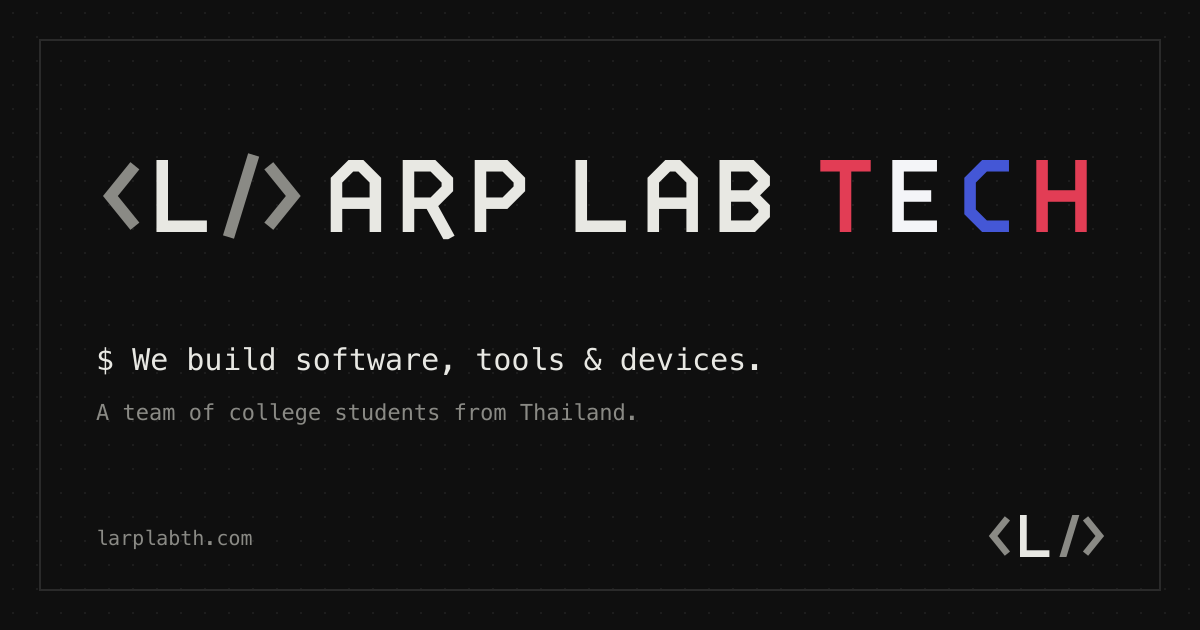
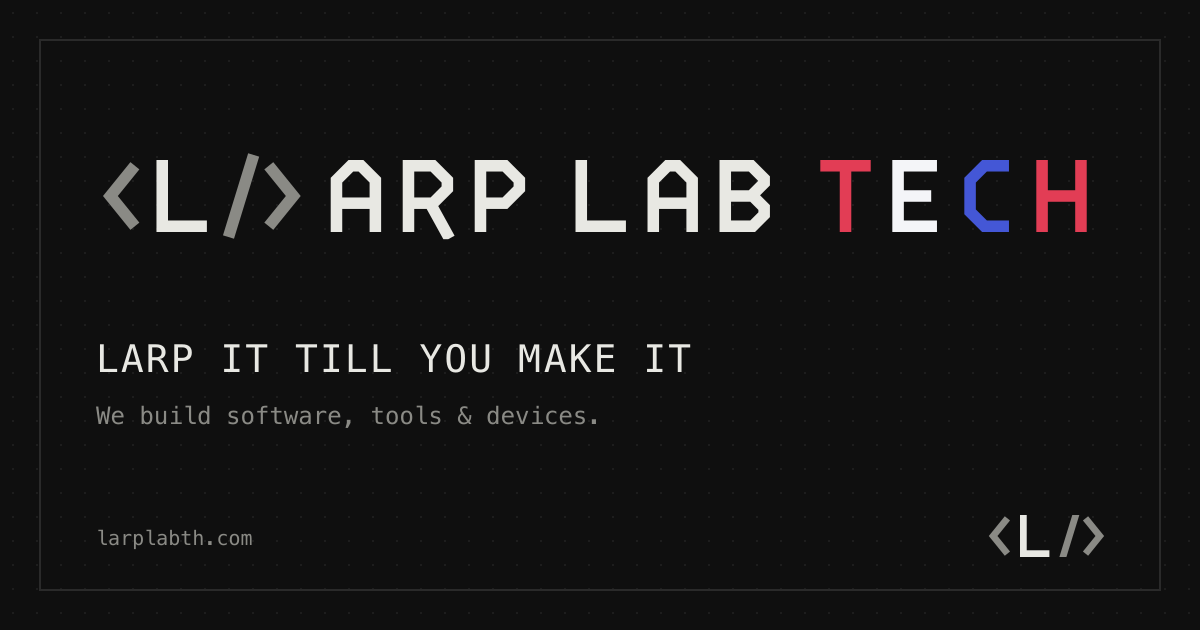
Add the motto "LARP IT TILL YOU MAKE IT"
- New full-width motto band between the ticker and About: words fade in
  in sequence, LARP and MAKE IT at full strength, blinking block cursor
- Motto lives in site.ts and feeds the page, the OG image, the structured
  data (slogan) and the meta description
- Share-link image and Facebook cover regenerated with the motto

Changed region(s): [[0.0617, 0.5429, 0.6167, 0.6032], [0.0617, 0.6333, 0.5242, 0.6937]]

diff --git a/src/config/site.ts b/src/config/site.ts
@@ -7,8 +7,9 @@ export const site = {
   shortName: 'LARP_LAB',
   url: 'https://larplabth.com',
   tagline: 'We build software, tools & devices.',
+  motto: 'LARP IT TILL YOU MAKE IT',
   description:
-    'LARP LAB TH is an anonymous team of college students from Thailand building SaaS, tools, services and devices — and helping teams solve hard technical problems.',
+    'LARP it till you make it. LARP LAB TH is an anonymous team of college students from Thailand building SaaS, tools, services and devices — and helping teams solve hard technical problems.',
   email: 'larplab.th@gmail.com',
   location: 'Thailand',
   foundedYear: 2026,
